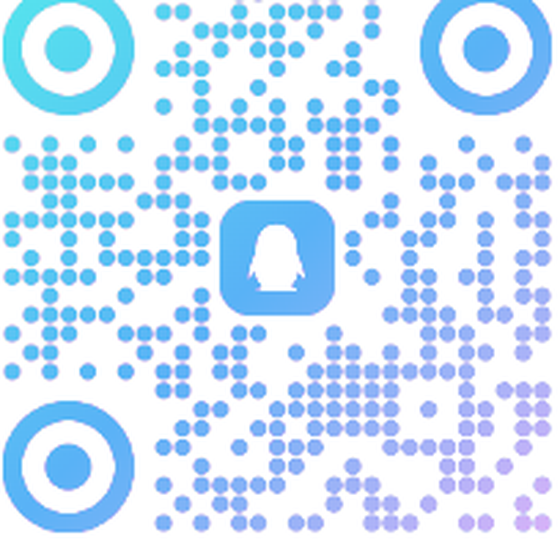
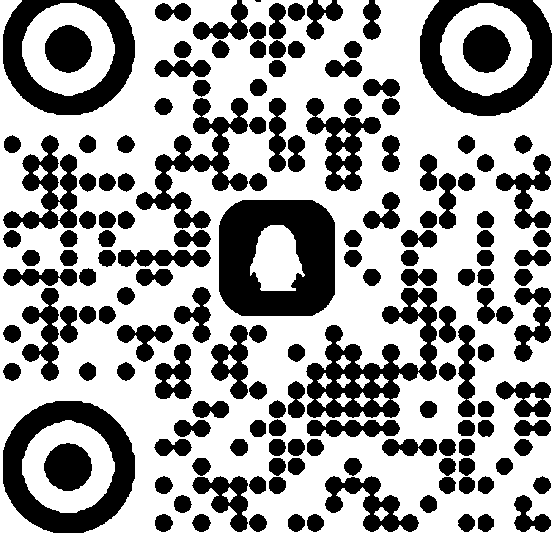
feat: 授权容错与脚本沙箱安全加固，版本升至 0.7.14
- LicenseCheck: 授权端点不可达时 fail-open 放行，避免 404 锁死新用户
- JsSource: ClassShutter 全屏蔽 Java 调用 + 指令计数超时沙箱，杜绝 RCE
- CI: 签名口令改用 secrets 管理，消除硬编码风险
- 测速排序: insertBefore 修复非镜像节点被顶到首位
- 性能: QQ 群二维码压缩至 9.5KB，生成 favicon 小图标
- SEO: 补充 og:url/canonical/favicon，og:image 改绝对路径
- 版本: 0.7.13 → 0.7.14，versionCode 28 → 29，下载直链同步更新

diff --git a/index.html b/index.html
@@ -7,9 +7,12 @@
 <meta name="description" content="C桌面（CDesk）是给车机、平板、盒子、电视等安卓设备用的一块纯净桌面：无广告、无推荐流、内置 4K 壁纸、网速悬浮窗、局域网传文件。">
 <meta property="og:title" content="C桌面 CDesk — 车机、平板、盒子、电视的纯净桌面">
 <meta property="og:description" content="无广告、无推荐流。三页桌面 + 4K 壁纸 + 网速悬浮窗 + 局域网传文件。">
-<meta property="og:image" content="assets/icon-512.png">
+<meta property="og:image" content="https://gcy5.cn.mt/assets/icon-512.png">
+<meta property="og:url" content="https://gcy5.cn.mt/">
+<link rel="canonical" href="https://gcy5.cn.mt/">
 <meta name="theme-color" content="#faf6ef">
-<link rel="icon" href="assets/icon-512.png">
+<link rel="icon" href="assets/favicon-32.png" sizes="32x32">
+<link rel="icon" href="assets/favicon-16.png" sizes="16x16">
 <link rel="stylesheet" href="styles.css">
 </head>
 <body>
@@ -62,7 +65,7 @@
           <span class="device-tag">可点演示</span>
         </div>
         <div class="device-embed">
-          <iframe src="demo/?embed=1" title="C桌面新版首页可交互演示：分页切换、壁纸循环、方向键导航"></iframe>
+          <iframe src="demo/?embed=1" title="C桌面新版首页可交互演示：分页切换、壁纸循环、方向键导航" loading="lazy" decoding="async"></iframe>
         </div>
         <figcaption>新版首页 · 可点演示：切分页 / 循环壁纸 / 方向键导航 · 内置鲸鱼壁纸</figcaption>
       </figure>
@@ -154,7 +157,7 @@
         </details>
         <details>
           <summary>会收集我的数据吗？</summary>
-          <p>不会。除了天气需要按 IP 判断城市外，应用不向任何服务器上传数据；局域网传文件也只在你自己的网络内进行。</p>
+          <p>不会。除了天气按 IP 判断城市、正版授权校验会向授权服务器发送设备签名指纹外，应用不向任何服务器上传其他数据；局域网传文件也只在你自己的网络内进行。</p>
         </details>
         <details>
           <summary>收费吗？有内购吗？</summary>
@@ -242,7 +245,7 @@
       <div class="security-grid">
         <article class="card security-card">
           <h3>零数据上传</h3>
-          <p>除天气需按 IP 判断城市外，应用不向任何服务器上传数据。局域网传文件仅在你自己的网络内进行，不经第三方中转。</p>
+          <p>除天气按 IP 判断城市、正版授权校验发送设备签名指纹外，应用不向任何服务器上传其他数据。局域网传文件仅在你自己的网络内进行，不经第三方中转。</p>
         </article>
         <article class="card security-card">
           <h3>无支付 SDK</h3>
@@ -263,19 +266,21 @@
   <section class="section" id="download">
     <div class="wrap">
       <p class="eyebrow">下载</p>
-      <h2>当前版本 v0.7.12 · 稳定版筹备中</h2>
+      <h2>当前版本 v0.7.14 · 稳定版筹备中</h2>
       <p class="section-lead">APK 不收费，不接入任何支付 SDK。完整版本列表见 Releases。</p>
       <div class="download-grid">
         <article class="card download-card download-card--stable">
           <p class="badge badge--stable">当前版本 · 推荐</p>
-          <h3>v0.7.12</h3>
+          <h3>v0.7.14</h3>
           <p>滚动更新版本，新功能在此验证后逐步稳定。适合日常使用，App 内更新提示即此通道。</p>
           <p class="download-meta">稳定声明：此版本经过完整测试，核心功能均已验证通过，适合日常长期使用。</p>
           <div class="download-actions" data-mirror-group>
-            <a class="btn btn--primary btn--default" data-mirror="GHFast" href="https://ghfast.top/https://github.com/gcy529/CDesk/releases/download/beta/CDesk-0.7.13-beta.apk" target="_blank" rel="noopener">GHFast 加速 · 默认</a>
-            <a class="btn btn--ghost" data-mirror="GH-Proxy" href="https://gh-proxy.com/https://github.com/gcy529/CDesk/releases/download/beta/CDesk-0.7.13-beta.apk" target="_blank" rel="noopener">GH-Proxy</a>
-            <a class="btn btn--quiet" data-mirror="GitHub 直链" href="https://github.com/gcy529/CDesk/releases/download/beta/CDesk-0.7.13-beta.apk" target="_blank" rel="noopener">GitHub 直链</a>
+            <a class="btn btn--primary btn--default" data-mirror="GHFast" href="https://ghfast.top/https://github.com/gcy529/CDesk/releases/download/beta/CDesk-0.7.14-beta.apk" target="_blank" rel="noopener">GHFast 加速 · 默认</a>
+            <a class="btn btn--ghost" data-mirror="GH-Proxy" href="https://gh-proxy.com/https://github.com/gcy529/CDesk/releases/download/beta/CDesk-0.7.14-beta.apk" target="_blank" rel="noopener">GH-Proxy</a>
+            <a class="btn btn--quiet" data-mirror="GitHub 直链" href="https://github.com/gcy529/CDesk/releases/download/beta/CDesk-0.7.14-beta.apk" target="_blank" rel="noopener">GitHub 直链</a>
           </div>
+          <p class="mirror-status" data-mirror-status role="status" aria-live="polite"></p>
+          <p class="download-meta">SHA-256：<code class="verify-val">__SHA256__</code></p>
         </article>
         <article class="card download-card">
           <p class="badge badge--beta">更新日志</p>

diff --git a/classic/index.html b/classic/index.html
@@ -7,8 +7,11 @@
 <meta name="description" content="C桌面（CDesk）是给老车机、电视盒子、Android TV 用的一块干净桌面：无广告、无推荐流、内置 4K 壁纸、网速悬浮窗、局域网传文件。">
 <meta property="og:title" content="C桌面 CDesk — 老车机、电视盒子的干净桌面">
 <meta property="og:description" content="无广告、无推荐流。三页桌面 + 4K 壁纸 + 网速悬浮窗 + 局域网传文件。">
-<meta property="og:image" content="assets/icon-512.png">
-<link rel="icon" href="assets/icon-512.png">
+<meta property="og:image" content="https://gcy5.cn.mt/classic/assets/icon-512.png">
+<meta property="og:url" content="https://gcy5.cn.mt/classic/">
+<link rel="canonical" href="https://gcy5.cn.mt/classic/">
+<link rel="icon" href="assets/favicon-32.png" sizes="32x32">
+<link rel="icon" href="assets/favicon-16.png" sizes="16x16">
 <style>
   :root{
     --bg:#0f0d0a; --card:#1a1610; --line:#332a1c;
@@ -137,7 +140,7 @@
   <details><summary>为什么图标不是我想要的样子？</summary><p>桌面上的图标全部读取设备内应用的真实图标，本应用不替换任何第三方图标。只有 C桌面 自己的图标是内置的。</p></details>
   <details><summary>壁纸能换成自己的照片吗？</summary><p>可以。在「壁纸设置」里选自定义图片，从相册挑一张就行；也可以用「局域网传文件」把电脑/手机里的图传过来直接设成壁纸。</p></details>
   <details><summary>影音页里的直播 / 点播 / 音乐是干嘛的？</summary><p>提供播放器能力，具体内容由用户自行安排。</p></details>
-  <details><summary>会收集我的数据吗？</summary><p>不会。除了天气需要按 IP 判断城市外，应用不向任何服务器上传数据；局域网传文件也只在你自己的网络内进行。</p></details>
+  <details><summary>会收集我的数据吗？</summary><p>不会。除了天气按 IP 判断城市、正版授权校验会向授权服务器发送设备签名指纹外，应用不向任何服务器上传其他数据；局域网传文件也只在你自己的网络内进行。</p></details>
 </section>
 
 <section class="wrap">

diff --git a/app.js b/app.js
@@ -132,11 +132,17 @@ document.querySelectorAll('[data-copy-target]').forEach((button) => {
     const status = group.parentElement.querySelector('[data-mirror-status]');
 
     Promise.all(links.map(probe)).then((list) => {
-      const ok = list.filter((item) => item.ms !== null).sort((a, b) => a.ms - b.ms);
-      const bad = list.filter((item) => item.ms === null);
+        const ok = list.filter((item) => item.ms !== null).sort((a, b) => a.ms - b.ms);
+        const bad = list.filter((item) => item.ms === null);
 
-      ok.forEach((item) => group.appendChild(item.link));
-      bad.forEach((item) => group.appendChild(item.link));
+        // 只重排镜像链接，不动组内其他子节点（如「更新记录」按钮）：
+        // 以第一个非镜像子节点为锚点，把排序后的链接插到它前面，避免它被顶到首位
+        let anchor = null;
+        for (const child of group.children) {
+          if (!child.matches('a[data-mirror]')) { anchor = child; break; }
+        }
+        ok.forEach((item) => group.insertBefore(item.link, anchor));
+        bad.forEach((item) => group.insertBefore(item.link, anchor));
 
       if (!ok.length) {
         if (status) status.textContent = '测速没有结果，任选一条线路都能下载。';

diff --git a/archive/demo/index.html b/archive/demo/index.html
@@ -189,7 +189,8 @@
       walls: { day: 'Whale Day', sunset: 'Whale Sunset', night: 'Whale Night' },
       toast: { wall: 'Wallpaper: ', lang: 'Language: ', send: 'Demo: LAN transfer QR code', tip: 'Demo: tip code', open: 'Demo: open ' },
       date: function (d) {
-        return ['Sun', 'Mon', 'Tue', 'Wed', 'Thu', 'Fri', 'Sat'][d.getDay()] + ', Nov ' + d.getDate();
+        var m = ['Jan', 'Feb', 'Mar', 'Apr', 'May', 'Jun', 'Jul', 'Aug', 'Sep', 'Oct', 'Nov', 'Dec'];
+        return ['Sun', 'Mon', 'Tue', 'Wed', 'Thu', 'Fri', 'Sat'][d.getDay()] + ', ' + m[d.getMonth()] + ' ' + d.getDate();
       }
     }
   };
@@ -244,7 +245,7 @@
   var wallBase = document.getElementById('lz-wall-base');
   var wallFade = document.getElementById('lz-wall-fade');
   var wallTimer;
-  walls.forEach(function (n) { var img = new Image(); img.src = 'assets/wallpaper-' + n + '.jpg'; });
+  // 不预载全部壁纸：日间已由基础 <img> 加载，其余切换时按需加载，首屏省约 2.5MB
   function applyWall(name, animate) {
     var url = 'assets/wallpaper-' + name + '.jpg';
     clearTimeout(wallTimer);

diff --git a/app/src/main/java/com/c/launcher/JsSource.java b/app/src/main/java/com/c/launcher/JsSource.java
@@ -3,7 +3,9 @@ package com.c.launcher;
 import org.json.JSONArray;
 import org.json.JSONObject;
 import org.mozilla.javascript.BaseFunction;
+import org.mozilla.javascript.ClassShutter;
 import org.mozilla.javascript.Context;
+import org.mozilla.javascript.ContextFactory;
 import org.mozilla.javascript.Function;
 import org.mozilla.javascript.Scriptable;
 import org.mozilla.javascript.ScriptableObject;
@@ -42,6 +44,30 @@ public class JsSource {
     private static final String PREFS = "cdesk_core";
     private static final String KEY_SRC = "music_js_source";
 
+    /** 音源脚本执行超时：防止死循环脚本卡死界面线程 */
+    private static final long SCRIPT_TIMEOUT_MS = 5000L;
+
+    /**
+     * 屏蔽所有 Java 类访问。脚本只能跑在纯 JS 沙箱里，
+     * 杜绝通过 LiveConnect 调 java.lang.Runtime 等能力（RCE 入口）。
+     */
+    private static final ClassShutter DENY_ALL = new ClassShutter() {
+        @Override public boolean visibleToScripts(String fullClassName) {
+            return false;
+        }
+    };
+
+    /** 带指令计数超时的上下文工厂：超过 deadline 后抛异常中断脚本执行 */
+    private static final class GuardedContextFactory extends ContextFactory {
+        private final long deadline;
+        GuardedContextFactory(long deadline) { this.deadline = deadline; }
+        @Override protected void observeInstructionCount(Context cx, int count) {
+            if (System.currentTimeMillis() >= deadline) {
+                throw new RuntimeException("script execution timed out");
+            }
+        }
+    }
+
     private String scriptPath;
     private String scriptContent;
 
@@ -73,9 +99,8 @@ public class JsSource {
     /** 拉全列表（无关键词） */
     public List<Song> list() {
         try {
-            Context ctx = Context.enter();
+            Context ctx = newContext();
             try {
-                ctx.setLanguageVersion(Context.VERSION_ES6);
                 Scriptable scope = setupScope(ctx);
                 ctx.evaluateString(scope, scriptContent, "source.js", 1, null);
                 List<Song> out = callList(ctx, scope);
@@ -94,9 +119,8 @@ public class JsSource {
     public List<Song> search(String keyword) {
         if (keyword == null || keyword.length() == 0) return list();
         try {
-            Context ctx = Context.enter();
+            Context ctx = newContext();
             try {
-                ctx.setLanguageVersion(Context.VERSION_ES6);
                 Scriptable scope = setupScope(ctx);
                 ctx.evaluateString(scope, scriptContent, "source.js", 1, null);
                 List<Song> out = callSearch(ctx, scope, keyword);
@@ -111,9 +135,20 @@ public class JsSource {
         }
     }
 
+    /** 创建受沙箱保护的上下文：纯 JS 安全对象、屏蔽 Java 类、带执行超时 */
+    private static Context newContext() {
+        Context ctx = new GuardedContextFactory(System.currentTimeMillis() + SCRIPT_TIMEOUT_MS)
+                .enterContext();
+        ctx.setLanguageVersion(Context.VERSION_ES6);
+        ctx.setOptimizationLevel(-1);
+        ctx.setClassShutter(DENY_ALL);
+        ctx.setInstructionObserverThreshold(10000);
+        return ctx;
+    }
+
     /** 注入 module + require + exports mock，跑脚本后读 module.exports */
     private Scriptable setupScope(Context ctx) {
-        Scriptable scope = ctx.initStandardObjects();
+        Scriptable scope = ctx.initSafeStandardObjects();
         NativeObject module = new NativeObject();
         NativeObject exports = new NativeObject();
         module.put("exports", module, exports);

diff --git a/app/src/main/java/com/c/launcher/LicenseCheck.java b/app/src/main/java/com/c/launcher/LicenseCheck.java
@@ -131,12 +131,26 @@ public final class LicenseCheck {
     private static void fetchAsync(final Context c, final String fp, final Callback cb) {
         new Thread(new Runnable() {
             @Override public void run() {
-                final Token t = fetch(c, fp);
+                final FetchResult r = fetch(c, fp);
                 MAIN.post(new Runnable() {
                     @Override public void run() {
+                        // 无签名指纹的安装无法绑定令牌，直接判为篡改
+                        if (fp.length() == 0) {
+                            cb.onDenied("tamper");
+                            return;
+                        }
+                        // 服务端不可达（断网 / 端点未部署 / 404 / 国内直连 raw 不通）：
+                        // fail-open 放行。否则端点未就绪会把新用户锁死在不可关闭的授权
+                        // 弹窗里；端点可用后，服务端明确拒绝仍会正常限制。
+                        if (!r.reachable) {
+                            CLog.w("license endpoint unreachable, fail-open allowing launch");
+                            cb.onLicensed("offline", "full");
+                            return;
+                        }
+                        Token t = r.token;
                         if (t == null || !verifySig(t)) {
-                            cb.onDenied(t == null ? "network" : "tamper");
-                        } else if (fp.length() == 0 || !fp.equals(t.fp)) {
+                            cb.onDenied(t == null ? "denied" : "tamper");
+                        } else if (!fp.equals(t.fp)) {
                             cb.onDenied("tamper");
                         } else if (System.currentTimeMillis() >= t.expMs + GRACE_MS) {
                             cb.onDenied("expired");
@@ -150,11 +164,20 @@ public final class LicenseCheck {
         }).start();
     }
 
-    private static Token fetch(Context c, String fp) {
-        if (fp.length() == 0) return null;
+    /** 区分「网络不可达」与「服务端可达但拒绝/格式非法」，前者 fail-open，后者拒绝 */
+    private static final class FetchResult {
+        final boolean reachable;
+        final Token token;
+        FetchResult(boolean reachable, Token token) {
+            this.reachable = reachable;
+            this.token = token;
+        }
+    }
+
+    private static FetchResult fetch(Context c, String fp) {
         String body = httpGet(LICENSE_ENDPOINT + "?fp=" + fp);
-        if (body == null) return null;
-        return parse(body, fp);
+        if (body == null) return new FetchResult(false, null);
+        return new FetchResult(true, parse(body, fp));
     }
 
     /** 解析服务端返回的令牌 JSON；字段不全或格式非法返回 null */
